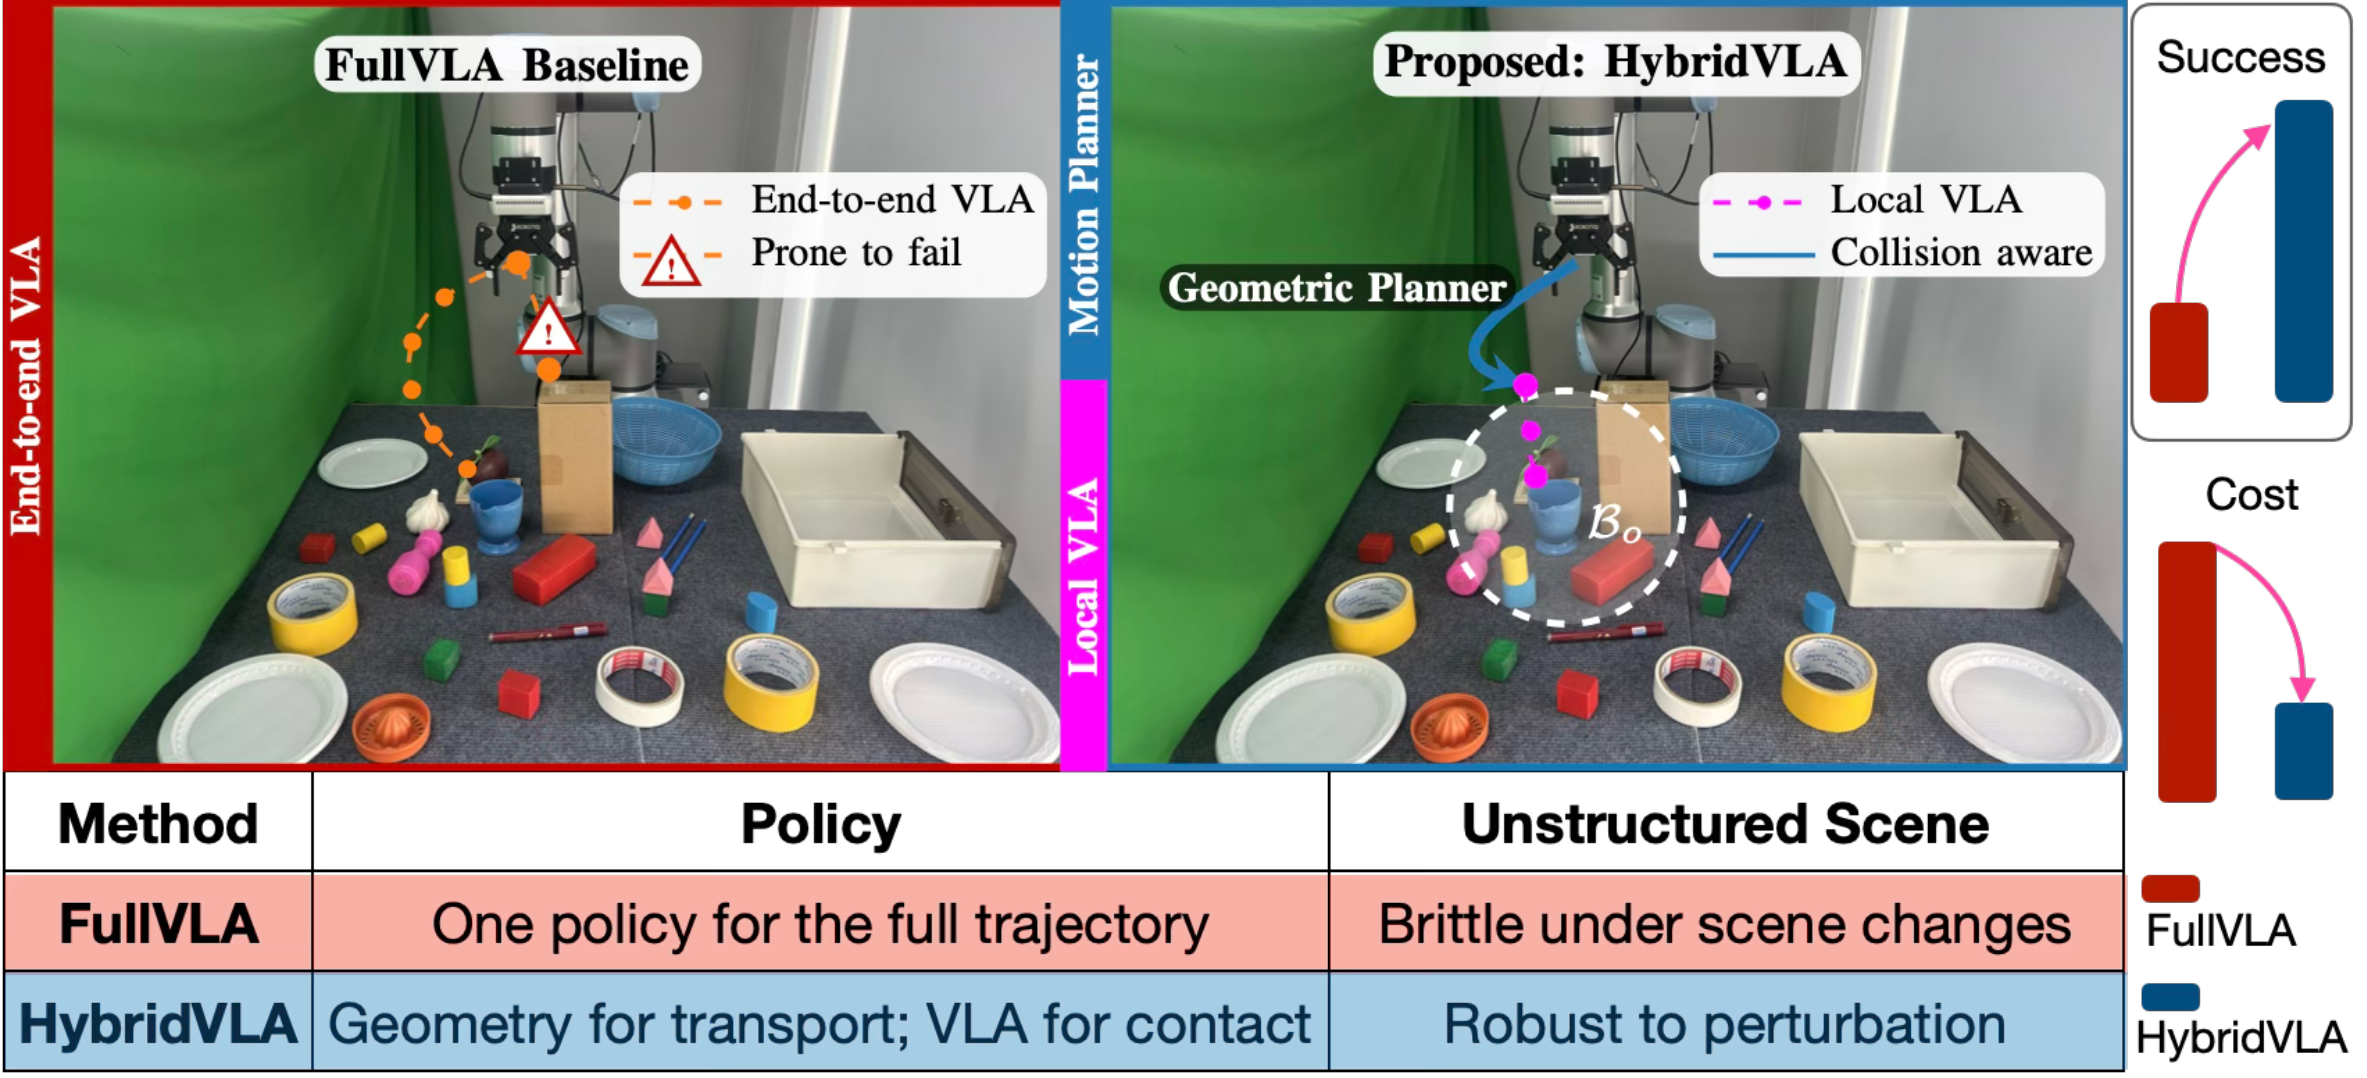
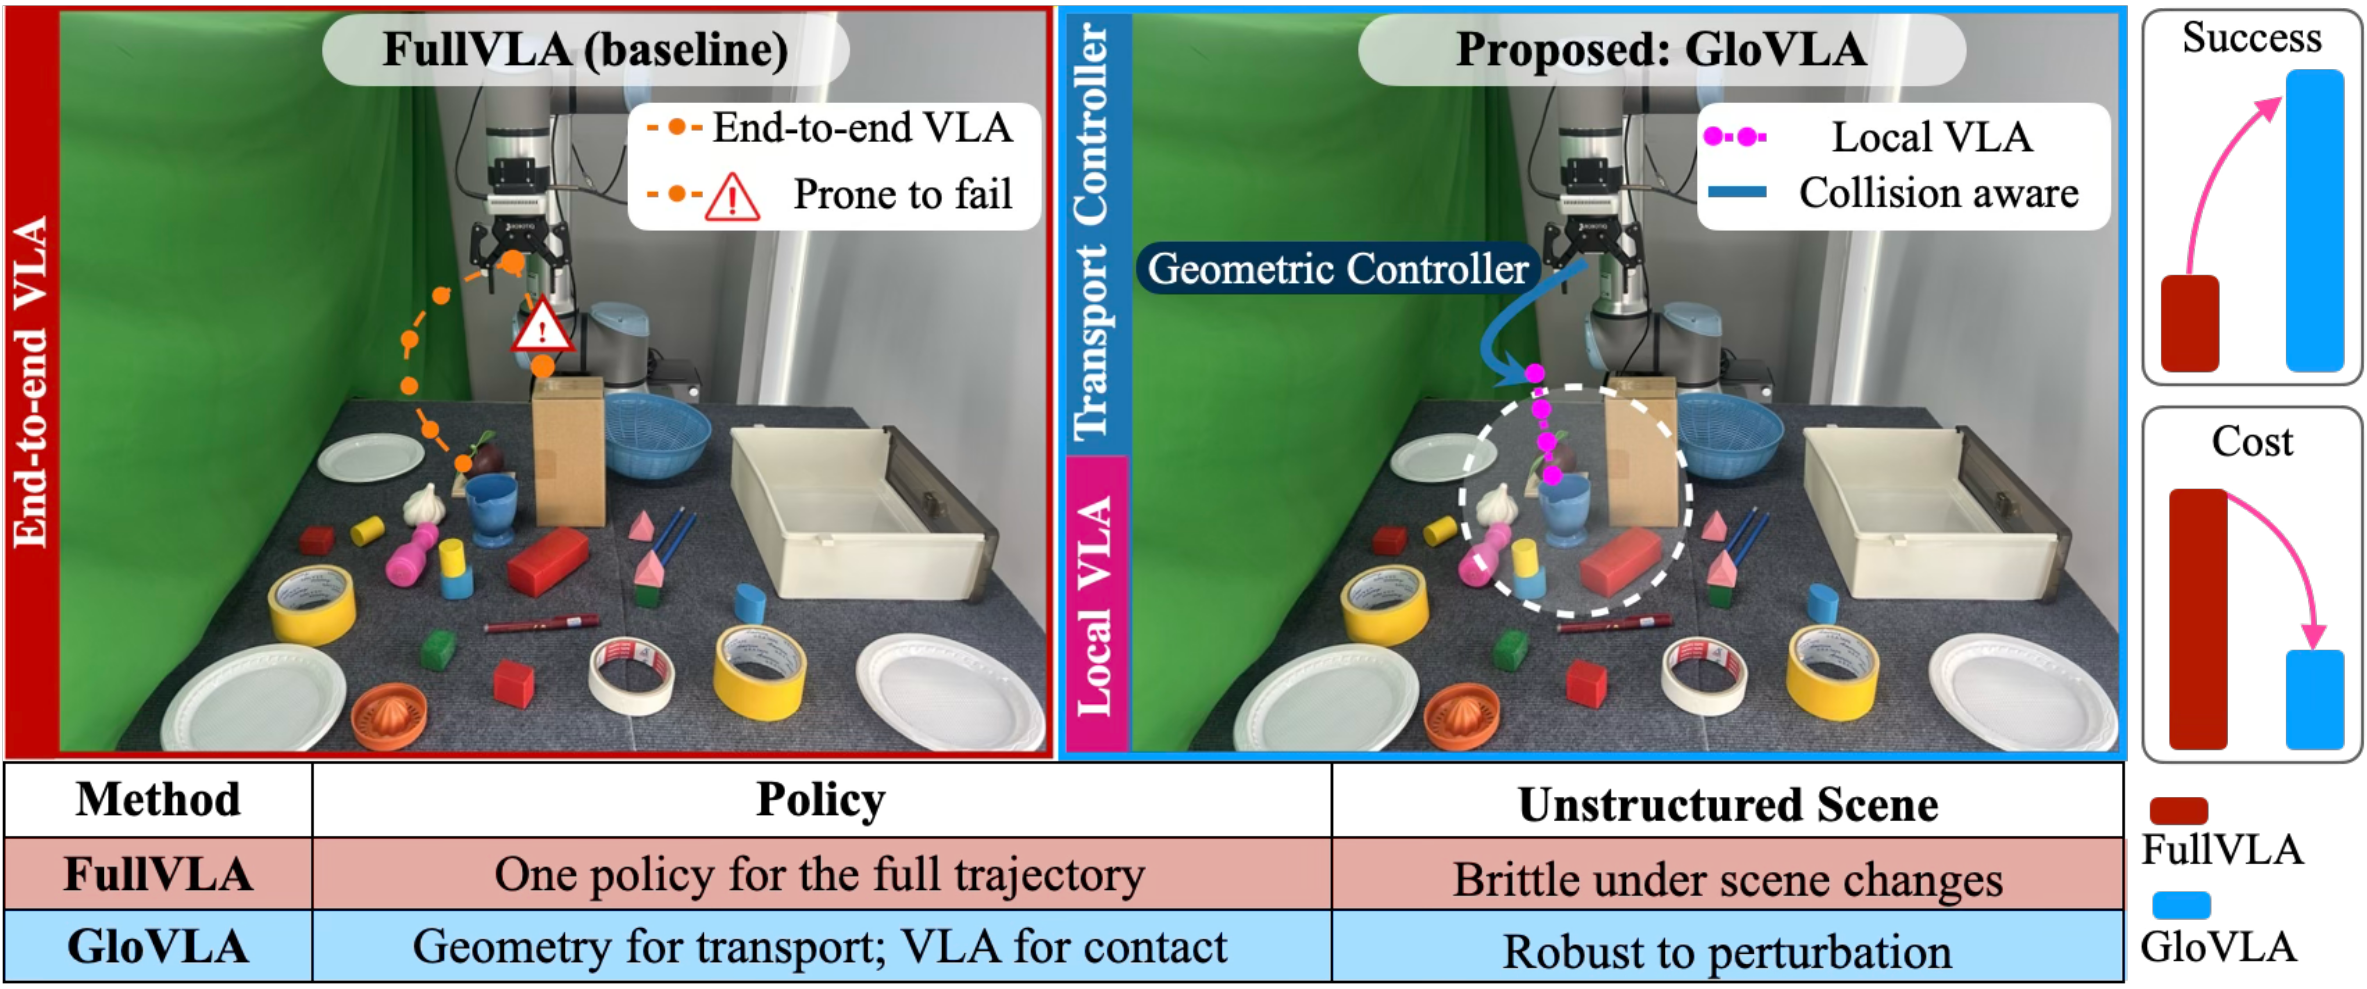
Update method figure to GloVLA; remap phase panels

diff --git a/index.html b/index.html
@@ -82,7 +82,7 @@
               <span class="phase-text">home</span>
             </div>
           </div>
-          <figcaption>GloVLA on a real UR10e tabletop: a geometric transport controller (gray phases) moves the arm to object- and basket-centric handoff regions, then local VLA policies (orange phases) handle the contact-rich grasp and place. The badge tracks the current phase. Videos play at 3&times; speed.</figcaption>
+          <figcaption>GloVLA on a real UR10e: a geometric transport controller (gray phases) moves the arm to object- and basket-centric handoff regions, then local VLA policies (orange phases) handle the contact-rich grasp and place. The badge tracks the current phase. Videos play at 3&times; speed.</figcaption>
         </figure>
       </div>
     </section>
@@ -110,31 +110,31 @@
         <figure class="figure phase-machine" aria-label="Rollout state machine with a real episode frame per phase">
           <div class="phase-track">
             <div class="phase-panel">
-              <img src="static/images/phases/phase_0.jpg" alt="Home pose: arm at reset before transport">
+              <img src="static/images/phases/1.jpg" alt="Home pose: arm at reset before transport">
               <span class="phase-name phase-name-neutral">home</span>
               <span class="phase-desc">Robot at its reset pose; the target object is localized.</span>
             </div>
             <span class="phase-sep">&rarr;</span>
             <div class="phase-panel">
-              <img src="static/images/phases/phase_1.jpg" alt="Transport controller drives the gripper toward the object (gray trace)">
+              <img src="static/images/phases/2.jpg" alt="Transport controller drives the gripper toward the object (gray trace)">
               <span class="phase-name phase-name-planner">transport &rarr; object</span>
               <span class="phase-desc">Controller drives the gripper to the object handoff region.</span>
             </div>
             <span class="phase-sep">&rarr;</span>
             <div class="phase-panel">
-              <img src="static/images/phases/phase_2.jpg" alt="Local grasp VLA closes on the cup (orange trace)">
+              <img src="static/images/phases/3.jpg" alt="Local grasp VLA closes on the cup (orange trace)">
               <span class="phase-name phase-name-vla">grasp VLA</span>
               <span class="phase-desc">VLA closes the loop to grasp and lift the object.</span>
             </div>
             <span class="phase-sep">&rarr;</span>
             <div class="phase-panel">
-              <img src="static/images/phases/phase_3.jpg" alt="Transport controller carries the object to the basket (gray trace)">
+              <img src="static/images/phases/4.jpg" alt="Transport controller carries the object to the basket (gray trace)">
               <span class="phase-name phase-name-planner">transport &rarr; basket</span>
               <span class="phase-desc">Controller carries the held object to the basket handoff region.</span>
             </div>
             <span class="phase-sep">&rarr;</span>
             <div class="phase-panel">
-              <img src="static/images/phases/phase_4.jpg" alt="Local place VLA releases the object into the basket (orange trace)">
+              <img src="static/images/phases/5.jpg" alt="Local place VLA releases the object into the basket (orange trace)">
               <span class="phase-name phase-name-vla">place VLA</span>
               <span class="phase-desc">VLA aligns and releases the object into the basket.</span>
             </div>

diff --git a/static/js/main.js b/static/js/main.js
@@ -20,10 +20,10 @@ document.querySelectorAll('.teaser-video video, .video-card video').forEach((v) 
 // TUNE these to the real phase timings of static/videos/teaser.mp4.
 const PHASE_TIMES = [
   { t: 0.0,  key: 'home',              label: 'home' },
-  { t: 2.5,  key: 'transport-object',  label: 'transport → object' },
-  { t: 5.0, key: 'grasp',             label: 'grasp VLA' },
-  { t: 17.0, key: 'transport-basket',  label: 'transport → basket' },
-  { t: 21.0, key: 'place',             label: 'place VLA' },
+  { t: 0.5,  key: 'transport-object',  label: 'transport → object' },
+  { t: 2.0, key: 'grasp',             label: 'grasp VLA' },
+  { t: 14.0, key: 'transport-basket',  label: 'transport → basket' },
+  { t: 18.0, key: 'place',             label: 'place VLA' },
 ];
 
 (function () {
